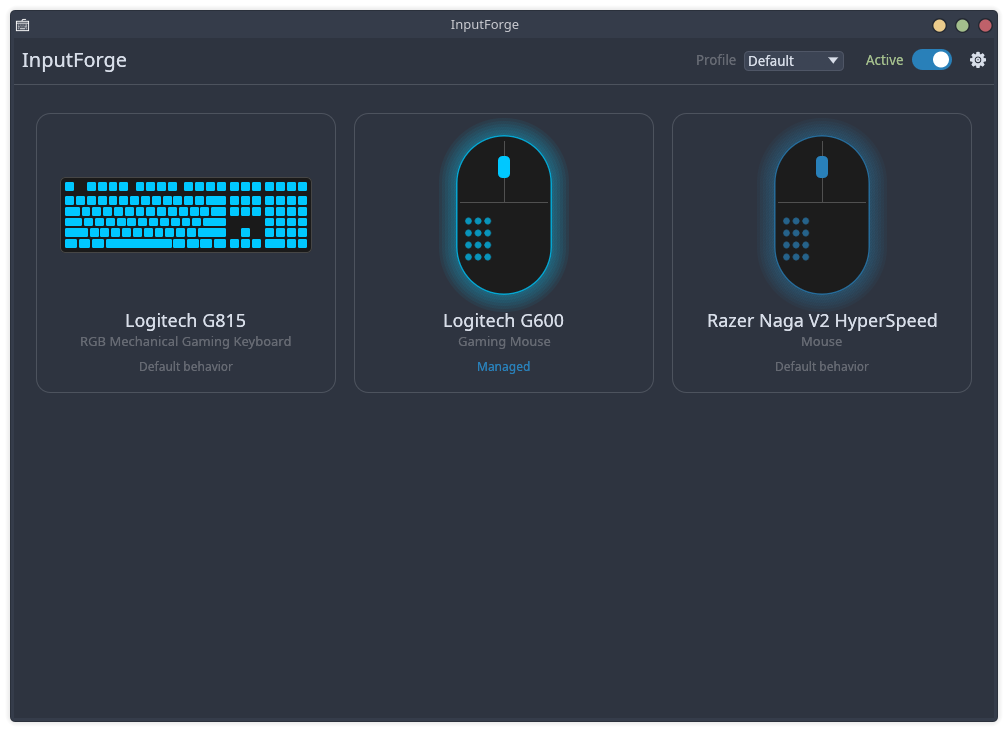
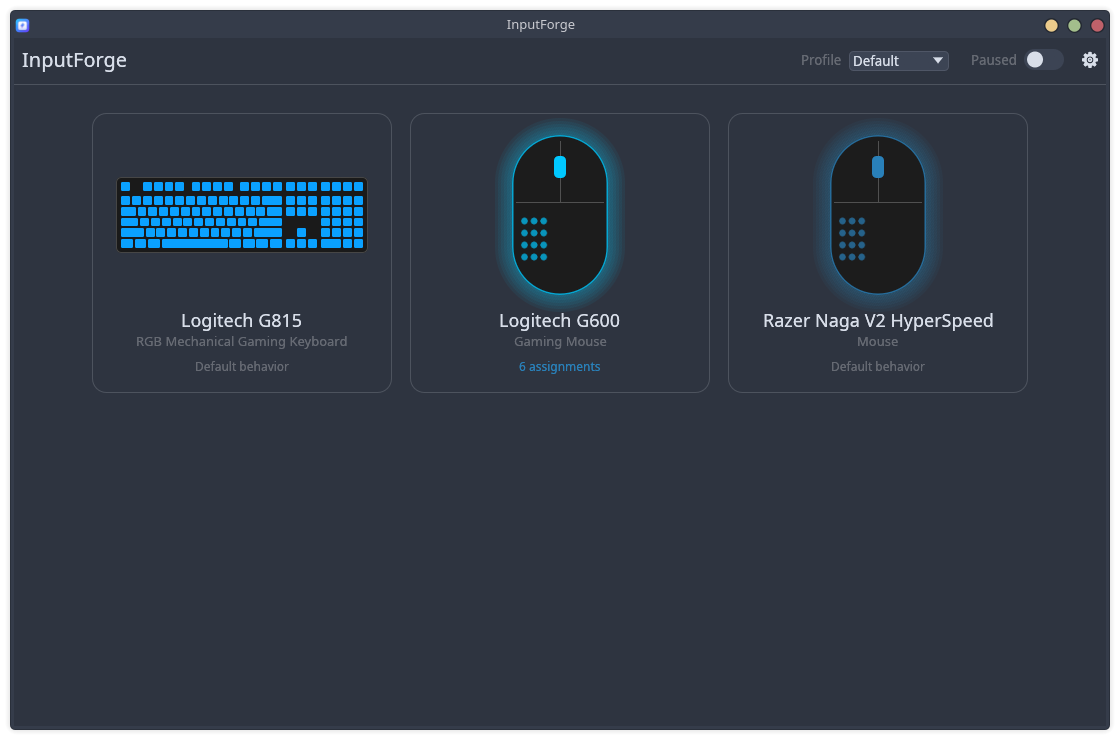
README: screenshots of every page; dev env vars for screenshot runs

diff --git a/src/tray.rs b/src/tray.rs
@@ -292,6 +292,10 @@ pub enum Instance {
 /// Claim the single-instance bus name. If another instance owns it, forward
 /// `forward` (Show, or Quit) to it and return Secondary.
 pub fn claim(tx: Sender<Cmd>, waker: Waker, forward: Option<&str>) -> Instance {
+    // Dev/screenshot aid: run a separate, tray-less instance.
+    if std::env::var_os("INPUTFORGE_NO_SINGLE_INSTANCE").is_some() {
+        return Instance::Primary(None);
+    }
     let Ok(conn) = zbus::blocking::Connection::session() else {
         return Instance::Primary(None);
     };

diff --git a/src/app/home.rs b/src/app/home.rs
@@ -1356,6 +1356,7 @@ pub fn view_from_str(v: &str) -> Option<View> {
     match parts.as_slice() {
         ["settings"] => Some(View::Settings(SettingsPage::General)),
         ["settings", "macros"] => Some(View::Settings(SettingsPage::Macros)),
+        ["settings", "autoclicker"] => Some(View::Settings(SettingsPage::Autoclicker)),
         ["settings", "advanced"] => Some(View::Settings(SettingsPage::Advanced)),
         ["device", vid, pid, sec] => Some(View::Device(
             format!("{vid}:{pid}"),

diff --git a/README.md b/README.md
@@ -8,6 +8,17 @@ X11, and in games.
 
 ![Home screen](docs/home.png)
 
+## Screenshots
+
+| | |
+|---|---|
+| ![Per-key keyboard lighting](docs/keyboard-lighting.png) | ![Mouse assignments](docs/mouse-assignments.png) |
+| **Per-key lighting:** click or drag to paint keys on the G815 | **Assignments:** every button with its current function; click to change |
+| ![Mouse lighting](docs/mouse-lighting.png) | ![Macro editor](docs/macros.png) |
+| **Mouse lighting:** solid, breathing, rainbow, or match the keyboard | **Macros:** taps, held keys, typed text, delays and mouse moves |
+| ![Settings](docs/settings.png) | |
+| **Settings:** start at login in the tray, restore lighting, theme | |
+
 ## Features
 
 - **Devices at a glance.** The home screen shows one card per keyboard and mouse. Click a card
